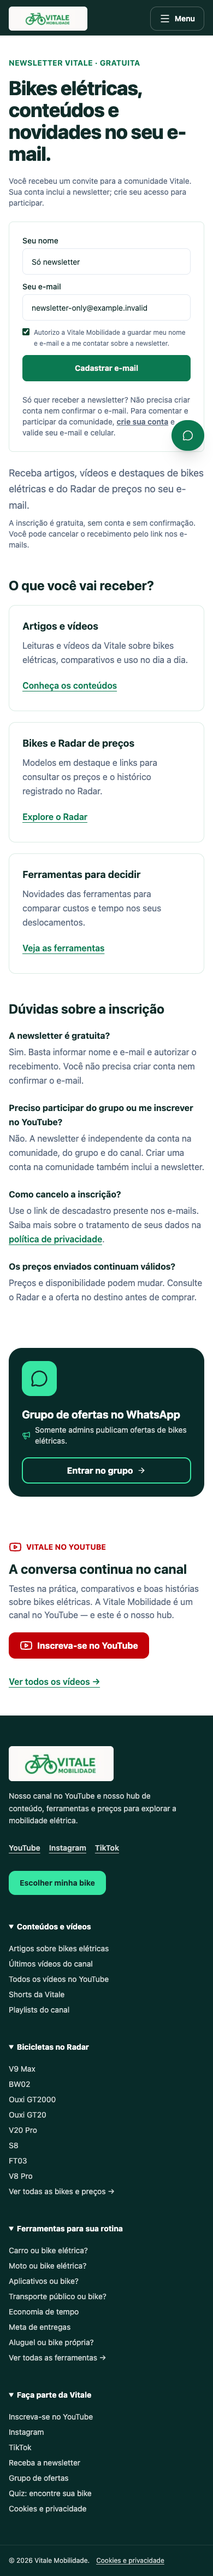
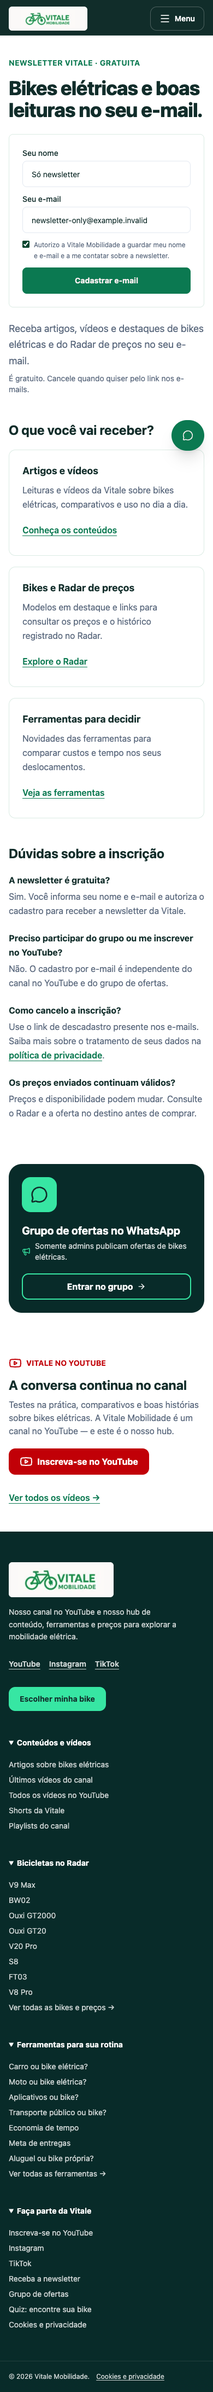
Restore original newsletter capture across all surfaces

Changed region(s): [[0.0, 0.0, 1.0, 0.9952]]

diff --git a/src/routes/newsletter.tsx b/src/routes/newsletter.tsx
@@ -2,14 +2,11 @@ import { createFileRoute, Link } from "@tanstack/react-router";
 import { SiteHeader, SiteFooter } from "@/components/site/site-ui";
 import { NewsletterSignup } from "@/components/site/NewsletterSignup";
 import { canonicalUrl, pageHead } from "@/lib/seo";
-import { useEffect } from "react";
-import { newsletterReferralsEnabled, referralCode } from "@/lib/newsletter-referrals";
 
 const title = "Newsletter de bikes elétricas | Vitale Mobilidade";
 const description = "Inscreva-se na newsletter gratuita da Vitale Mobilidade e receba artigos, vídeos, bikes em destaque e novidades do Radar de preços por e-mail.";
 
 export const Route = createFileRoute("/newsletter")({
-  validateSearch: (search: Record<string, unknown>) => ({ ref: referralCode(search.ref) }),
   head: () => ({
     ...pageHead({ path: "/newsletter", title, description }),
     scripts: [{ type: "application/ld+json", children: JSON.stringify({
@@ -22,29 +19,18 @@ export const Route = createFileRoute("/newsletter")({
 });
 
 export function NewsletterPage() {
-  const { ref } = Route.useSearch();
-  useEffect(() => {
-    if (!newsletterReferralsEnabled || !ref) return;
-    let active = true;
-    void import("@/integrations/supabase/client").then(({ supabase }) => {
-      if (active) return supabase.functions.invoke("newsletter-interest", { body: { action: "community_referral_visit", referralCode: ref } });
-      return undefined;
-    }).catch(() => { /* The form never waits for a visit metric. */ });
-    return () => { active = false; };
-  }, [ref]);
   return (
     <div className="min-h-screen bg-background text-foreground">
       <SiteHeader />
       <main className="responsive-container py-10 sm:py-16">
         <div className="max-w-3xl">
           <p className="text-sm font-bold tracking-wide text-action">NEWSLETTER VITALE · GRATUITA</p>
-          <h1 className="mt-4 text-4xl font-extrabold tracking-tight text-ink sm:text-5xl">Bikes elétricas, conteúdos e novidades no seu e-mail.</h1>
+          <h1 className="mt-4 text-4xl font-extrabold tracking-tight text-ink sm:text-5xl">Bikes elétricas e boas leituras no seu e-mail.</h1>
         </div>
-        {newsletterReferralsEnabled && ref && <p className="mt-5 text-sm text-muted-foreground">Você recebeu um convite para a comunidade Vitale. Sua conta inclui a newsletter; crie seu acesso para participar.</p>}
-        <div className="mt-6 max-w-3xl"><NewsletterSignup compact referralCode={ref} /></div>
+        <div className="mt-6 max-w-3xl"><NewsletterSignup compact /></div>
         <div className="mt-6 max-w-3xl">
           <p className="text-lg leading-relaxed text-muted-foreground">Receba artigos, vídeos e destaques de bikes elétricas e do Radar de preços no seu e-mail.</p>
-          <p className="mt-2 text-sm text-muted-foreground">A inscrição é gratuita, sem conta e sem confirmação. Você pode cancelar o recebimento pelo link nos e-mails.</p>
+          <p className="mt-2 text-sm text-muted-foreground">É gratuito. Cancele quando quiser pelo link nos e-mails.</p>
         </div>
         <section aria-labelledby="newsletter-benefits" className="mt-12">
           <h2 id="newsletter-benefits" className="text-2xl font-bold text-ink">O que você vai receber?</h2>
@@ -57,8 +43,8 @@ export function NewsletterPage() {
         <section aria-labelledby="newsletter-questions" className="mt-12 max-w-3xl">
           <h2 id="newsletter-questions" className="text-2xl font-bold text-ink">Dúvidas sobre a inscrição</h2>
           <div className="mt-5 space-y-6 leading-relaxed">
-            <div><h3 className="font-bold text-ink">A newsletter é gratuita?</h3><p className="mt-1 text-muted-foreground">Sim. Basta informar nome e e-mail e autorizar o recebimento. Você não precisa criar conta nem confirmar o e-mail.</p></div>
-            <div><h3 className="font-bold text-ink">Preciso participar do grupo ou me inscrever no YouTube?</h3><p className="mt-1 text-muted-foreground">Não. A newsletter é independente da conta na comunidade, do grupo e do canal. Criar uma conta na comunidade também inclui a newsletter.</p></div>
+            <div><h3 className="font-bold text-ink">A newsletter é gratuita?</h3><p className="mt-1 text-muted-foreground">Sim. Você informa seu nome e e-mail e autoriza o cadastro para receber a newsletter da Vitale.</p></div>
+            <div><h3 className="font-bold text-ink">Preciso participar do grupo ou me inscrever no YouTube?</h3><p className="mt-1 text-muted-foreground">Não. O cadastro por e-mail é independente do canal no YouTube e do grupo de ofertas.</p></div>
             <div><h3 className="font-bold text-ink">Como cancelo a inscrição?</h3><p className="mt-1 text-muted-foreground">Use o link de descadastro presente nos e-mails. Saiba mais sobre o tratamento de seus dados na <a href="/privacidade" className="font-semibold text-action underline underline-offset-4">política de privacidade</a>.</p></div>
             <div><h3 className="font-bold text-ink">Os preços enviados continuam válidos?</h3><p className="mt-1 text-muted-foreground">Preços e disponibilidade podem mudar. Consulte o Radar e a oferta no destino antes de comprar.</p></div>
           </div>

diff --git a/src/components/site/NewsletterSignup.tsx b/src/components/site/NewsletterSignup.tsx
@@ -1,18 +1,9 @@
-import { referralCode as validReferralCode } from "@/lib/newsletter-referrals";
 import { captureQuizAttribution } from "@/lib/quiz-attribution";
 import { useId, useState, type FormEvent } from "react";
 import { Mail } from "lucide-react";
 import { Button } from "@/components/ui/button";
 
-export function NewsletterSignup({
-  compact = false,
-  referralCode,
-}: {
-  compact?: boolean;
-  referralCode?: string;
-}) {
-  const invitation = validReferralCode(referralCode);
-  const communityUrl = `/conta?modo=cadastro${invitation ? `&convite=${invitation}` : ""}`;
+export function NewsletterSignup({ compact = false }: { compact?: boolean }) {
   const id = useId();
   const [name, setName] = useState("");
   const [email, setEmail] = useState("");
@@ -89,8 +80,8 @@ export function NewsletterSignup({
       )}
       {status === "done" ? (
         <p role="status" className="rounded-lg bg-mint/20 p-4 text-sm text-ink">
-          Inscrição recebida. Não é preciso criar conta nem confirmar o e-mail
-          para receber a newsletter da Vitale.
+          Cadastro confirmado. Guardamos seu nome e e-mail para a newsletter da
+          Vitale.
         </p>
       ) : (
         <form
@@ -183,14 +174,6 @@ export function NewsletterSignup({
           </Button>
         </form>
       )}
-      <p className="text-sm text-muted-foreground md:col-span-full">
-        Só quer receber a newsletter? Não precisa criar conta nem confirmar o
-        e-mail. Para comentar e participar da comunidade,{" "}
-        <a href={communityUrl} className="font-semibold underline">
-          crie sua conta
-        </a>{" "}
-        e valide seu e-mail e celular.
-      </p>
     </section>
   );
 }

diff --git a/docs/NEWSLETTER_FORM_RESTORE_2026-11-03.md b/docs/NEWSLETTER_FORM_RESTORE_2026-11-03.md
@@ -1,0 +1,23 @@
+# Restauração integral da captação da newsletter
+
+O responsável apontou que a captação foi substituída indevidamente pelo cadastro da comunidade em todos os lugares. Correção autorizada: restaurar exatamente NewsletterSignup.tsx e a página /newsletter do baseline operacional 540fc1d, sem CTA, conta, convite ou validação de comunidade nessas áreas. Um único componente restaura Home, rodapés, artigos e popup. A comunidade permanece em /conta, com validação própria para interações.
+
+## Revisão antes da correção — relevante
+
+| Perspectiva | Impacto e risco | Recomendação |
+| --- | --- | --- |
+| Produto | Recuperar newsletter simples como produto independente; remover associação indevida a conta | Restaurar baseline exato |
+| Arquitetura | Componente compartilhado e página existentes; writer/endpoint atuais permanecem | Restaurar sem mexer backend |
+| IA | Sem alteração em agentes, cron ou editorial | N/A justificado |
+| Segurança | Consentimento anterior da newsletter preservado, sem criar Auth/telefone | Prosseguir |
+| UX | Campos nome/email/aceite em todas as superfícies; nenhum botão de cadastro completo | Prosseguir |
+| CX | Restabelecer operação conhecida | Prosseguir |
+| Growth | Recuperar captação e copy originais; canonical/metadados originais | Prosseguir |
+| QA | Verificar identidade dos dois arquivos com baseline, smoke sem Auth e validate | GO para correção dirigida |
+
+Decisão: somente restauração exata dos dois arquivos e adaptação do smoke para o contrato original. Sem DB, migrations, e-mails ou WhatsApp. Rollback seguro deste reparo é manter o formulário original; não republicar a substituição por conta. Newsletter não precisa de conta, confirmação, celular ou verificação de comunidade. A adesão da comunidade pode incluir newsletter por aceite, mas não substitui os formulários existentes.
+
+
+## Revisão posterior local
+
+Produto, Arquitetura, Segurança, UX, CX, Growth e QA: **Pass**. IA: **N/A**, sem alteração em geração/campanha. `NewsletterSignup.tsx` e `routes/newsletter.tsx` comparados byte a byte com `git show 540fc1d:...`: idênticos. Smoke Chrome: nome/email/consentimento registra newsletter sem signup/Auth/adesão. Formulário sem texto/link de comunidade, canonical original e moderação/gate de identidade continuam funcionando. `pnpm validate` passou (66 regressões, types e SSR build). Sem alteração de banco/backend neste reparo. Publicação da restauração em andamento.

diff --git a/docs/ROADMAP.md b/docs/ROADMAP.md
@@ -1,5 +1,7 @@
 # Roadmap Vitale Mobilidade
 
+> **Restauração exata da newsletter — 03/11/2026:** correção prioritária autorizada pelo responsável. Componente compartilhado e página /newsletter retornam byte a byte ao formulário original 540fc1d, sem conta, senha, confirmação ou CTA de comunidade. Home, rodapés, artigos e popup usam o mesmo componente. Comunidade e validação permanecem em /conta. [Evidência e revisão](NEWSLETTER_FORM_RESTORE_2026-11-03.md).
+
 > **Correção de identidade e newsletter — 03/11/2026, preparada localmente:** newsletter simples com nome/e-mail e aceite, sem conta ou confirmação. Conta da comunidade inclui newsletter; comentar e futuras curtidas/anúncios exigem prova independente de email e celular. Email pelo Resend; WhatsApp pela conta Vitale no Hotpipe, que ainda precisa de template AUTHENTICATION aprovado e chave específica de templates. [Decisão, dependências e evidências](MEMBER_IDENTITY_2026-11-03.md). Não confundir auto-confirm do Auth com validação.
 
 > **Comunidade publicada — 03/11/2026:** [cadastro e login](https://vitalemobilidade.com/conta) com acesso imediato, newsletter incluída, perfil próprio, comentários moderados e link pessoal de convite com métricas privadas. Recuperação de senha pelo Resend, em português e com remetente Vitale, recebida e confirmada pelo responsável. Auto-confirm autorizado; métricas representam cadastros, sem prova de posse da caixa. [Release, oito perspectivas, evidências e rollback](COMMUNITY_IMMEDIATE_ACCESS_2026-11-03.md). Fórum/feed, curtidas, ranking/ações, anúncios pagos de R$150 e sorteios continuam evoluções futuras. Notas anteriores abaixo preservam o histórico das decisões substituídas.
